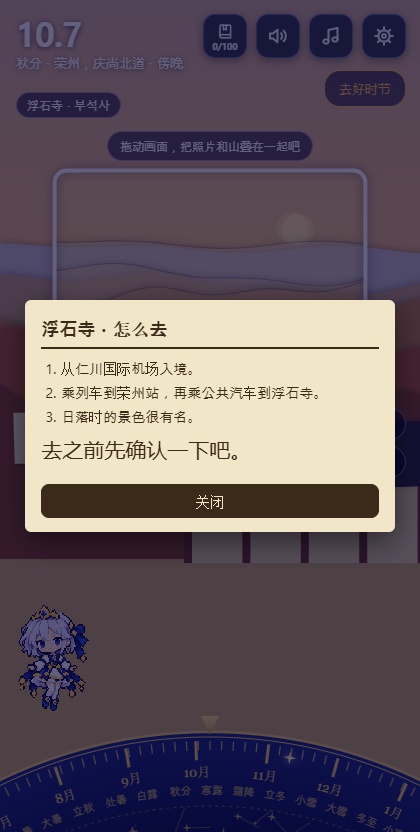
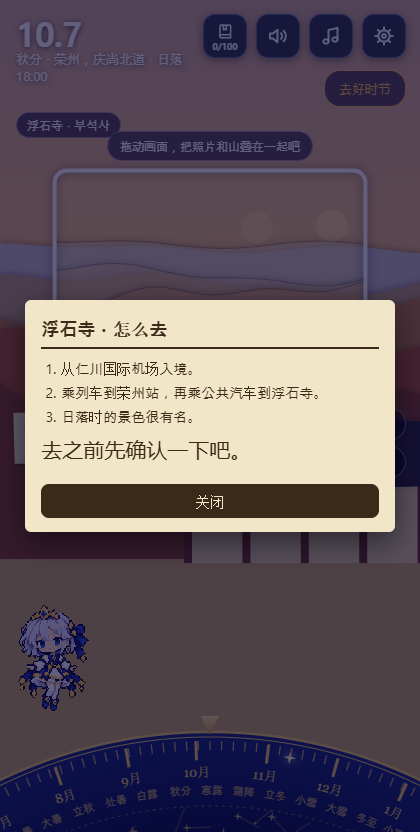
Compute the sun: position before sunset and the sunset time follow the dial
docs/assets/sun.js (NOAA formulas) with seven tests. The scene's sun moves
along the horizon with the season and the header shows the day's sunset.

Changed region(s): [[0.031, 0.0625, 0.3405, 0.1875], [0.3714, 0.0625, 0.4333, 0.0938]]

diff --git a/docs/overlay-proto.html b/docs/overlay-proto.html
@@ -16,8 +16,9 @@ canvas.full{inset:0;width:100%;height:100%;pointer-events:none}
 .glass{background:rgba(5,3,48,.6);border:1px solid rgba(226,218,246,.45);border-radius:16px}
 #date{top:14px;left:16px;pointer-events:none;text-shadow:0 1px 6px rgba(5,3,48,.7)}
 #date b{display:block;font-size:34px;font-weight:600;letter-spacing:-.02em;line-height:1.1}
-#date span{font-size:13px}
-#name{top:92px;left:16px;font-size:12px;padding:4px 10px;pointer-events:none}
+#date{max-width:46%}
+#date span{display:block;font-size:13px;line-height:1.3}
+#name{top:112px;left:16px;font-size:12px;padding:4px 10px;pointer-events:none}
 /* 위쪽 단추 줄과 설정 창: 우주 한량(1권)의 유리 단추와 아이콘(assets/ui/icon-*.svg)을 그대로 옮겼다. */
 #nav{top:14px;right:14px;display:flex;gap:9px}
 #nav button,#settings button{border:1px solid #9fb4ff66;border-radius:12px;background:#0d1a3acc;box-shadow:0 2px 10px #0006;color:#eef3ff;font:inherit}
@@ -148,6 +149,7 @@ canvas.full{inset:0;width:100%;height:100%;pointer-events:none}
 </div>
 <script src="assets/music.js"></script>
 <script src="assets/squares.js"></script>
+<script src="assets/sun.js"></script>
 <script>
 const $ = id => document.getElementById(id);
 const ph = $('ph'), scene = $('scene'), dial = $('dial'), fly = $('fly'), hit = $('hit');
@@ -161,7 +163,7 @@ const smooth = t => t * t * (3 - 2 * t);
 const LANG_KEY = 'koreaoddity.lang.v1';
 const TEXT = {
   ko: { name: '부석사', memo: '', hint: '화면을 끌어 사진과 산을 포개 보렴', bubble: '겹쳤다! 산은 그대로네.', good: '좋은 때로', today: '오늘로', again: '다시 찾기',
-    where: '영주, 경북 · 저녁', month: '월', sound: '효과음', music: '배경 음악', settings: '설정', close: '닫기', soundTerm: '소리', on: '켜짐', off: '꺼짐',
+    where: '영주, 경북', sunset: '해 짐', month: '월', sound: '효과음', music: '배경 음악', settings: '설정', close: '닫기', soundTerm: '소리', on: '켜짐', off: '꺼짐',
     soundNote: '배경 음악은 우주 한량의 열한 곡입니다. 위쪽의 스피커 단추와 음표 단추로도 켜고 끕니다.', noJournal: '수첩은 아직 없습니다.', hush: '쉬잇~',
     journalTitle: '할머니의 수첩 3권', tabMap: '지도', tabList: '칸', went: '갔다', saw: '봤다', missed: '못 봤다', go: '가기', here: '지금 이 자리입니다.',
     noArt: '이 칸은 아직 그림이 없습니다.', pick: '점을 누르면 그 칸이 보입니다.', rough: '자리는 어림입니다.',
@@ -170,7 +172,7 @@ const TEXT = {
     routes: ['인천공항으로 입국한다.', '영주역까지 열차를 타고, 부석사까지 버스를 탄다.', '해 질 때의 경치가 유명하다.'],
     regions: { '서울·경기·인천': '서울·경기·인천', '강원': '강원', '충청': '충청', '전라': '전라', '경상': '경상', '제주': '제주', '섬과 끝': '섬과 끝' } },
   ja: { name: '浮石寺（プソクサ） · 부석사', memo: '1985.11. 夕方。山が幾重にも見えた。', hint: '画面を引いて、写真と山を重ねてごらん', bubble: '重なった！山はそのままだね。', good: 'いい季節へ', today: '今日へ', again: 'もう一度さがす',
-    where: '栄州、慶尚北道 · 夕方', month: '月', sound: '効果音', music: '音楽', settings: '設定', close: '閉じる', soundTerm: '音', on: 'オン', off: 'オフ',
+    where: '栄州、慶尚北道', sunset: '日の入り', month: '月', sound: '効果音', music: '音楽', settings: '設定', close: '閉じる', soundTerm: '音', on: 'オン', off: 'オフ',
     soundNote: '音楽は「Space Oddity」の十一曲です。上のスピーカーと音符のボタンでもオン・オフできます。', noJournal: '手帳はまだありません。', hush: 'しーっ',
     journalTitle: 'おばあちゃんの手帳 3巻', tabMap: '地図', tabList: 'マス', went: '行った', saw: '見た', missed: '見られなかった', go: '行く', here: '今いる場所です。',
     noArt: 'このマスはまだ絵がありません。', pick: '点を押すとそのマスが見えます。', rough: '場所はおおよそです。',
@@ -179,7 +181,7 @@ const TEXT = {
     routes: ['仁川国際空港から入国する。', '栄州駅まで列車に乗り、浮石寺までバスに乗る。', '日没時の景色が有名である。'],
     regions: { '서울·경기·인천': 'ソウル・京畿・仁川', '강원': '江原', '충청': '忠清', '전라': '全羅', '경상': '慶尚', '제주': '済州', '섬과 끝': '島と果て' } },
   zh: { name: '浮石寺 · 부석사', memo: '1985.11. 傍晚。看见山层层叠叠。', hint: '拖动画面，把照片和山叠在一起吧', bubble: '重合啦！山还是老样子呢。', good: '去好时节', today: '回到今天', again: '再找一次',
-    where: '荣州，庆尚北道 · 傍晚', month: '月', sound: '音效', music: '背景音乐', settings: '设置', close: '关闭', soundTerm: '声音', on: '开', off: '关',
+    where: '荣州，庆尚北道', sunset: '日落', month: '月', sound: '音效', music: '背景音乐', settings: '设置', close: '关闭', soundTerm: '声音', on: '开', off: '关',
     soundNote: '背景音乐是《Space Oddity》的十一首曲子。也可以用上方的喇叭按钮和音符按钮开关。', noJournal: '笔记本还没有。', hush: '嘘～',
     journalTitle: '奶奶的笔记本 第3本', tabMap: '地图', tabList: '格', went: '去过', saw: '看过', missed: '没看到', go: '前往', here: '现在就在这里。',
     noArt: '这一格还没有图。', pick: '点一下圆点，就能看到那一格。', rough: '位置是大概的。',
@@ -281,11 +283,19 @@ function ridgePath(c, i, cam) {
   for (let sx = 0; sx <= W + 4; sx += 4) c.lineTo(sx, H * BASE[i] + cam.y * K[i] - AMP[i] * ridge(i, sx + cam.x * K[i]));
   c.lineTo(W, H); c.closePath();
 }
-function drawScene(c, cam, pal, w, outline) {
+// 해: 그 자리, 그날, 해 지기 40분 전의 높이와 방위를 셈해 그린다(assets/sun.js). 그림이 보는 쪽은 남서(방위 235도)로
+// 잡았고 가로로 80도가 보인다. 보는 쪽은 어림이다. 부석사에서 실제로 어느 쪽을 보는 구도인지 확인해야 한다.
+const PLACE = (typeof SQUARES === 'undefined' ? null : SQUARES.find(x => x.id === 'buseoksa')) ?? { lat: 36.9989, lon: 128.6873 };
+const VIEW_AZ = 235, VIEW_WIDE = 80, BEFORE_SET = 40;
+function sunSpot(day) {
+  const n = mod(Math.round(day), YEAR), p = sunAt(PLACE.lat, PLACE.lon, n, sunTimes(PLACE.lat, PLACE.lon, n).set - BEFORE_SET);
+  return { x: W * 0.5 + (p.az - VIEW_AZ) / VIEW_WIDE * W, y: H * 0.315 - p.alt * W / VIEW_WIDE };
+}
+function drawScene(c, cam, pal, w, outline, sun) {
   const g = c.createLinearGradient(0, 0, 0, H * 0.5);
   g.addColorStop(0, css(pal.top)); g.addColorStop(1, css(pal.bot));
   c.fillStyle = g; c.fillRect(0, 0, W, H);
-  c.fillStyle = css(pal.sun); c.beginPath(); c.arc(W * 0.7 - cam.x * 0.03, H * 0.275 + cam.y * 0.03, 16, 0, 6.2832); c.fill();
+  c.fillStyle = css(pal.sun); c.beginPath(); c.arc(sun.x - cam.x * 0.03, sun.y + cam.y * 0.03, 16, 0, 6.2832); c.fill();
   for (let i = 0; i < 5; i++) {
     c.save();
     c.shadowColor = 'rgba(40,30,20,.3)'; c.shadowBlur = 7; c.shadowOffsetY = -2;   // 종이 겹의 그림자
@@ -333,7 +343,7 @@ function layout() {
   for (const c of [scene, dial, photo, snap]) { c.width = W * dpr; c.height = H * dpr; c.getContext('2d').setTransform(dpr, 0, 0, dpr, 0, 0); }
   const fw = W * 0.74, fh = fw * 0.72;
   frame = { x: (W - fw) / 2, y: H * 0.205, w: fw, h: fh };
-  drawScene(photo.getContext('2d'), TARGET, PHOTO, NOSEASON, true);
+  drawScene(photo.getContext('2d'), TARGET, PHOTO, NOSEASON, true, sunSpot(GOOD));
   $('memo').style.top = frame.y + fh + 16 + 'px';
   $('hint').style.top = frame.y - 40 + 'px';
   $('post').style.top = frame.y - 6 + 'px';
@@ -397,7 +407,7 @@ const dist = () => Math.hypot(cam.x - TARGET.x, cam.y - TARGET.y);
 let shotDay = TODAY;   // 찍은 날. 화면 크기가 바뀌면 이 날의 색으로 엽서를 다시 그린다.
 function fillPost() {
   const s = seasonAt(shotDay), dpr = window.devicePixelRatio || 1;
-  drawScene(snap.getContext('2d'), TARGET, s.pal, s.w, false);
+  drawScene(snap.getContext('2d'), TARGET, s.pal, s.w, false, sunSpot(shotDay));
   for (const [id, src] of [['pl', photo], ['pr', snap]]) {
     const c = $(id); c.getContext('2d').drawImage(src, frame.x * dpr, frame.y * dpr, frame.w * dpr, frame.h * dpr, 0, 0, c.width, c.height);
   }
@@ -433,7 +443,7 @@ function star4(c, x, y, r, color) {
 }
 function drawAll() {
   const c = scene.getContext('2d'), s = seasonAt(dv), dpr = window.devicePixelRatio || 1;
-  drawScene(c, cam, s.pal, s.w, false);
+  drawScene(c, cam, s.pal, s.w, false, sunSpot(dv));
   if (!shot) {
     const near = clamp(1 - dist() / 40, 0, 1), f = frame;
     c.save(); c.beginPath(); c.roundRect(f.x, f.y, f.w, f.h, 12); c.clip();
@@ -477,7 +487,7 @@ function drawAll() {
   needle.addColorStop(0, '#f8dc8a'); needle.addColorStop(1, '#c9962e');
   k.fillStyle = needle; k.beginPath(); k.moveTo(cx - 9, H - 116); k.lineTo(cx + 9, H - 116); k.lineTo(cx, H - 97); k.fill();
   $('date').firstElementChild.textContent = dateText(d);
-  $('date').lastElementChild.textContent = `${termOf(d)} · ${t('where')}`;
+  $('date').lastElementChild.textContent = `${termOf(d)} · ${t('where')} · ${t('sunset')} ${clockText(sunTimes(PLACE.lat, PLACE.lon, mod(Math.round(d), YEAR)).set)}`;
   $('jump').textContent = gap(Math.round(d), GOOD) === 0 ? t('today') : t('good');
   $('journalButton').textContent = `${filled.size}/100`;
 }

diff --git a/docs/assets/sun.js b/docs/assets/sun.js
@@ -1,0 +1,54 @@
+// 해의 자리와 뜨고 지는 시각. 그 자리(위도, 경도)와 날로 셈한다.
+// 미국 해양대기청(NOAA)의 태양 계산식을 옮겼다. 뜨고 지는 시각은 1분 안팎으로 맞는다(tests/sun.test.mjs).
+// 화면과 브라우저를 모른다. 보통 스크립트라 시험판(파일로 연 것)과 Node 시험이 함께 쓴다.
+// 날은 2026년 1월 1일을 0으로 센 번호다. 시각은 세계시(UTC)의 분이다. 한국 시각은 540분을 더한다.
+
+const SUN_RAD = Math.PI / 180;
+const SUN_JD_2026 = 2461041.5;   // 2026.1.1 0시(UTC)의 율리우스일
+
+// 그날 정오 무렵 해의 적위(도)와 균시차(분)
+function sunOfDay(day) {
+  const T = (SUN_JD_2026 + day + 0.5 - 2451545) / 36525;
+  const L0 = (280.46646 + T * (36000.76983 + T * 0.0003032)) % 360;
+  const M = 357.52911 + T * (35999.05029 - 0.0001537 * T);
+  const e = 0.016708634 - T * (0.000042037 + 0.0000001267 * T);
+  const C = Math.sin(M * SUN_RAD) * (1.914602 - T * (0.004817 + 0.000014 * T))
+    + Math.sin(2 * M * SUN_RAD) * (0.019993 - 0.000101 * T) + Math.sin(3 * M * SUN_RAD) * 0.000289;
+  const omega = 125.04 - 1934.136 * T;
+  const lambda = L0 + C - 0.00569 - 0.00478 * Math.sin(omega * SUN_RAD);
+  const tilt = 23 + (26 + (21.448 - T * (46.815 + T * (0.00059 - T * 0.001813))) / 60) / 60 + 0.00256 * Math.cos(omega * SUN_RAD);
+  const decl = Math.asin(Math.sin(tilt * SUN_RAD) * Math.sin(lambda * SUN_RAD)) / SUN_RAD;
+  const y = Math.tan(tilt / 2 * SUN_RAD) ** 2;
+  const eot = 4 / SUN_RAD * (y * Math.sin(2 * L0 * SUN_RAD) - 2 * e * Math.sin(M * SUN_RAD)
+    + 4 * e * y * Math.sin(M * SUN_RAD) * Math.cos(2 * L0 * SUN_RAD)
+    - 0.5 * y * y * Math.sin(4 * L0 * SUN_RAD) - 1.25 * e * e * Math.sin(2 * M * SUN_RAD));
+  return { decl, eot };
+}
+
+// 뜨는 시각, 남중 시각, 지는 시각(UTC의 분). 해의 윗가장자리가 지평선에 닿는 때다(대기 굴절을 넣어 -0.833도).
+function sunTimes(lat, lon, day) {
+  const { decl, eot } = sunOfDay(day);
+  const cosH = Math.cos(90.833 * SUN_RAD) / (Math.cos(lat * SUN_RAD) * Math.cos(decl * SUN_RAD)) - Math.tan(lat * SUN_RAD) * Math.tan(decl * SUN_RAD);
+  const half = Math.acos(Math.max(-1, Math.min(1, cosH))) / SUN_RAD * 4;
+  const noon = 720 - 4 * lon - eot;
+  return { rise: noon - half, noon, set: noon + half };
+}
+
+// 그 시각 해의 높이(도, 지평선 위가 +)와 방위(도, 북 0 → 동 90 → 남 180 → 서 270)
+function sunAt(lat, lon, day, utcMinutes) {
+  const { decl, eot } = sunOfDay(day);
+  let ha = (utcMinutes + eot + 4 * lon) / 4 - 180;   // 시간각(도). 남중이 0, 오후가 +
+  ha = ((ha + 180) % 360 + 360) % 360 - 180;
+  const cosZ = Math.sin(lat * SUN_RAD) * Math.sin(decl * SUN_RAD) + Math.cos(lat * SUN_RAD) * Math.cos(decl * SUN_RAD) * Math.cos(ha * SUN_RAD);
+  const zen = Math.acos(Math.max(-1, Math.min(1, cosZ)));
+  const a = Math.acos(Math.max(-1, Math.min(1, (Math.sin(lat * SUN_RAD) * Math.cos(zen) - Math.sin(decl * SUN_RAD)) / (Math.cos(lat * SUN_RAD) * Math.sin(zen))))) / SUN_RAD;
+  return { alt: 90 - zen / SUN_RAD, az: ha > 0 ? (a + 180) % 360 : (540 - a) % 360 };
+}
+
+// 분 → "17:28". zone: 세계시에 더할 분(한국 540)
+function clockText(utcMinutes, zone = 540) {
+  const m = ((Math.round(utcMinutes + zone) % 1440) + 1440) % 1440;
+  return `${Math.floor(m / 60)}:${String(m % 60).padStart(2, "0")}`;
+}
+
+if (typeof module !== "undefined") module.exports = { sunOfDay, sunTimes, sunAt, clockText };

diff --git a/README.md b/README.md
@@ -28,9 +28,13 @@
 |:---:|:---:|:---:|
 | <img src="docs/mock/overlay-4.png" width="260"> | <img src="docs/mock/overlay-5.png" width="260"> | <img src="docs/mock/overlay-6.png" width="260"> |
 
-| 7. 수첩의 지도. 점이 칸 100개다 | 8. 수첩의 칸 목록(일본어) |
-|:---:|:---:|
-| <img src="docs/mock/overlay-7.png" width="260"> | <img src="docs/mock/overlay-8.png" width="260"> |
+| 7. 수첩의 지도. 점이 칸 100개다 | 8. 수첩의 칸 목록(일본어) | 9. 이야기 카드와 문제 |
+|:---:|:---:|:---:|
+| <img src="docs/mock/overlay-7.png" width="260"> | <img src="docs/mock/overlay-8.png" width="260"> | <img src="docs/mock/overlay-9.png" width="260"> |
+
+| 10. 가는 길(중국어) |
+|:---:|
+| <img src="docs/mock/overlay-10.png" width="260"> |
 
 - 원본: [docs/overlay-proto.html](docs/overlay-proto.html). `docs` 폴더를 통째로 내려받아 브라우저로 열면 된다(그림과 음악이 `docs/assets`, `docs/mock` 에 있다). 손전화로 보면 가장 잘 알 수 있다.
 - 화면 위쪽을 끌면 소라가 난다. 산은 다섯 겹이고 가까운 겹일수록 많이 밀린다. 그래서 할머니가 섰던 한 자리에서만 다섯 능선이 모두 사진과 포개진다.
@@ -39,6 +43,8 @@
 - 다이얼의 움직임과 소리는 시간 한량의 다이얼 시험판에서 그대로 옮겼다. 좋은 때(11.6)에서 한 칸 안에 멈추면 그날에 걸린다.
 - 다이얼의 생김새는 남색 유리에 금빛 눈금과 별자리 무늬다. 사용자가 세 안 가운데 셋째를 골랐다(2026.10.7).
 - 다이얼에는 달 이름과 24절기를 적었다. 한국어에서는 한글(입동), 일본어와 중국어에서는 그 나라의 한자(立冬)다.
+- "이야기"를 누르면 카드 세 문장과 문제 하나가 펼쳐진다. 답을 고르면 할머니의 말이 손글씨로 뜬다. "가는 길"은 사진을 포개 찍어 칸을 채운 뒤에 열린다. 공항에서 그 자리까지 세 줄이다.
+- 해는 계산한 자리에 뜬다. 부석사의 위도와 경도, 다이얼의 날로 해 지기 40분 전의 높이와 방위를 셈한다. 다이얼을 돌리면 해가 지평선을 따라 옮겨 가고, 위쪽에 그날 해 지는 시각이 보인다(10.7은 18:00, 11.6은 17:23, 동지는 17:12). 여름에는 해가 북서쪽으로 져서 그림 밖으로 나간다.
 - 수첩 단추를 누르면 수첩이 열린다. 지도에는 칸 100개가 점으로 찍혀 있고, 점을 누르면 그 칸의 이름이 보인다. 칸 목록은 권역 일곱으로 나뉜다. 채운 칸은 금빛이 되고 기억된다. 그림이 있는 칸은 68번 부석사 하나다.
 - 수첩의 좌표와 일본어, 중국어 이름은 위키백과와 위키데이터에서 긁은 바탕이다. 일본어 이름은 100칸 가운데 75칸, 중국어 이름은 69칸에 있고, 없는 칸은 한글로 보인다. 지도에 바닷가 선은 아직 없다.
 - 위쪽 오른쪽에 단추 넷이 있다. 수첩(채운 칸 수), 효과음, 배경 음악, 설정. 아이콘과 유리 단추는 우주 한량(1권)의 것을 그대로 가져왔다.
@@ -47,7 +53,7 @@
 - 소리나 음악을 끄면 소라가 손가락을 입에 대고 "쉬잇" 한다. 이것도 우주 한량에서 가져왔다.
 - 일본어와 중국어에서는 메모의 한국어 손글씨 아래에 번역이 작은 활자로 붙는다.
 
-시험판이라 게임 코드가 아니다. 땅 그림은 임시로 그린 것이고, 능선은 부석사에서 실제로 보이는 모양이 아니다. 절기 날짜는 어림이라 하루쯤 어긋날 수 있다. 해의 자리는 계산한 것이 아니다. 화면의 일본어와 중국어는 1권의 사전과 번역 시험에서 가져온 것, 그리고 임시 번역이다. 원어민이 보지 않았다.
+시험판이라 게임 코드가 아니다. 땅 그림은 임시로 그린 것이고, 능선은 부석사에서 실제로 보이는 모양이 아니다. 그림이 보는 쪽(남서)도 어림이다. 절기 날짜는 어림이라 하루쯤 어긋날 수 있다. 화면의 일본어와 중국어는 1권의 사전과 번역 시험에서 가져온 것, 그리고 임시 번역이다. 원어민이 보지 않았다.
 
 ## 번역 시험 1차
 

diff --git a/docs/넘김.md b/docs/넘김.md
@@ -15,6 +15,7 @@
 | `data/squares.json` | 기획서 9절의 100칸. `node tools/make-squares.mjs` 가 기획서에서 뽑는다 |
 | `data/places.json` | 100칸의 좌표와 한자, 일본어, 중국어 이름. `node tools/make-names.mjs data/squares-wiki.json data/places.json` 이 위키백과와 위키데이터에서 긁는다. 칸마다 읽을 문서 제목은 `data/squares-wiki-titles.json` 에 있다 |
 | `data/places-manual.json` | 좌표가 없던 7칸의 어림 좌표와, 그 자리가 아니라 군의 좌표를 쓴 3칸 |
+| `docs/assets/sun.js`, `tests/sun.test.mjs` | 해의 높이, 방위, 뜨고 지는 시각을 셈한다(NOAA의 식). 시험 일곱이 통과한다. `node --test tests/sun.test.mjs` |
 | `docs/assets/squares.js` | 위 셋을 합친 것. 시험판의 수첩이 읽는다. `node tools/make-square-data.mjs` 가 만든다 |
 | `docs/mock/sora.png` | 소라 그림. 2권 저장소의 `docs/mock/sora.png` 를 베껴 왔다 |
 | `docs/assets/ui/icon-*.svg` | 단추 아이콘 18개. 1권의 `public/assets/ui/` 에서 그대로 가져왔다 |
@@ -51,6 +52,9 @@
 6. **글자 수를 세는 법.** 메모 25자에 띄어쓰기와 날짜를 넣어 세는가. 기획서 6절의 본보기 메모는 넣어 세면 50자가 넘는다. 2권은 화면 메모(25자)와 수첩 메모(60자)로 나누었다.
 
 ## 4. 찾아낸 문제
+
+- 해 계산 시험의 기준 값(서울의 하지와 동지, 정동진의 1월 1일 해돋이)은 기억으로 적었다. 계산이 4분 안에서 맞았지만, 한국천문연구원의 값으로 다시 확인해야 한다.
+- 부석사 그림이 보는 쪽을 남서(방위 235도)로 잡은 것은 어림이다. 무량수전 앞에서 실제로 어느 쪽 능선이 보이는지 확인해야 한다.
 
 - 기획서 4절과 6절은 할머니가 "갔다" 40칸, "봤다" 57칸이라 했는데, 9절의 표를 세면 갔다 39칸, 봤다 58칸이다(못 봤다 3칸은 맞다). 표에서 한 칸을 "갔다"로 바꾸거나 숫자를 고친다.
 - 수첩의 100칸 가운데 위키백과에 제 문서가 없어 가까운 문서를 읽은 칸이 있다. 정선 오일장(정선군), 담양 메타세쿼이아길(담양군), 영양 반딧불이천문대(영양군), 인천 개항장(인천 차이나타운), 군산 근대거리(군산근대역사박물관), 하동 십리벚꽃길(쌍계사), 세화 해녀(해녀박물관), 진도 바닷길(진도신비의바닷길축제). 이 칸들은 일본어, 중국어 이름이 그 문서의 이름이다. 이름표를 만들 때 바로잡는다.

diff --git a/docs/바뀐-것들.md b/docs/바뀐-것들.md
@@ -14,6 +14,8 @@
 
 | 날 | 한 일 |
 |---|---|
+| 2026-10-07 | 해가 계산한 자리에 뜹니다. 다이얼을 돌리면 해 지는 시각이 바뀝니다. 부석사는 10월 7일에 18:00, 동지에 17:12입니다. |
+| 2026-10-07 | 부석사 칸에 이야기 카드, 문제, 가는 길이 붙었습니다. 가는 길은 사진을 포개 찍은 뒤에 열립니다. |
 | 2026-10-07 | 수첩을 열 수 있습니다. 지도에 칸 100개가 점으로 찍혀 있고, 점을 누르면 그 칸의 이름이 세 나라 말로 보입니다. |
 | 2026-10-07 | 시험판에 우주 한량의 단추와 설정을 붙였습니다. 말 셋(한국어, 일본어, 중국어)을 고르고, 효과음과 배경 음악 열한 곡을 따로 켜고 끕니다. 끄면 소라가 "쉬잇" 합니다. |
 | 2026-10-07 | 다이얼을 남색 유리에 금빛 눈금과 별자리 무늬로 바꿨습니다. |
